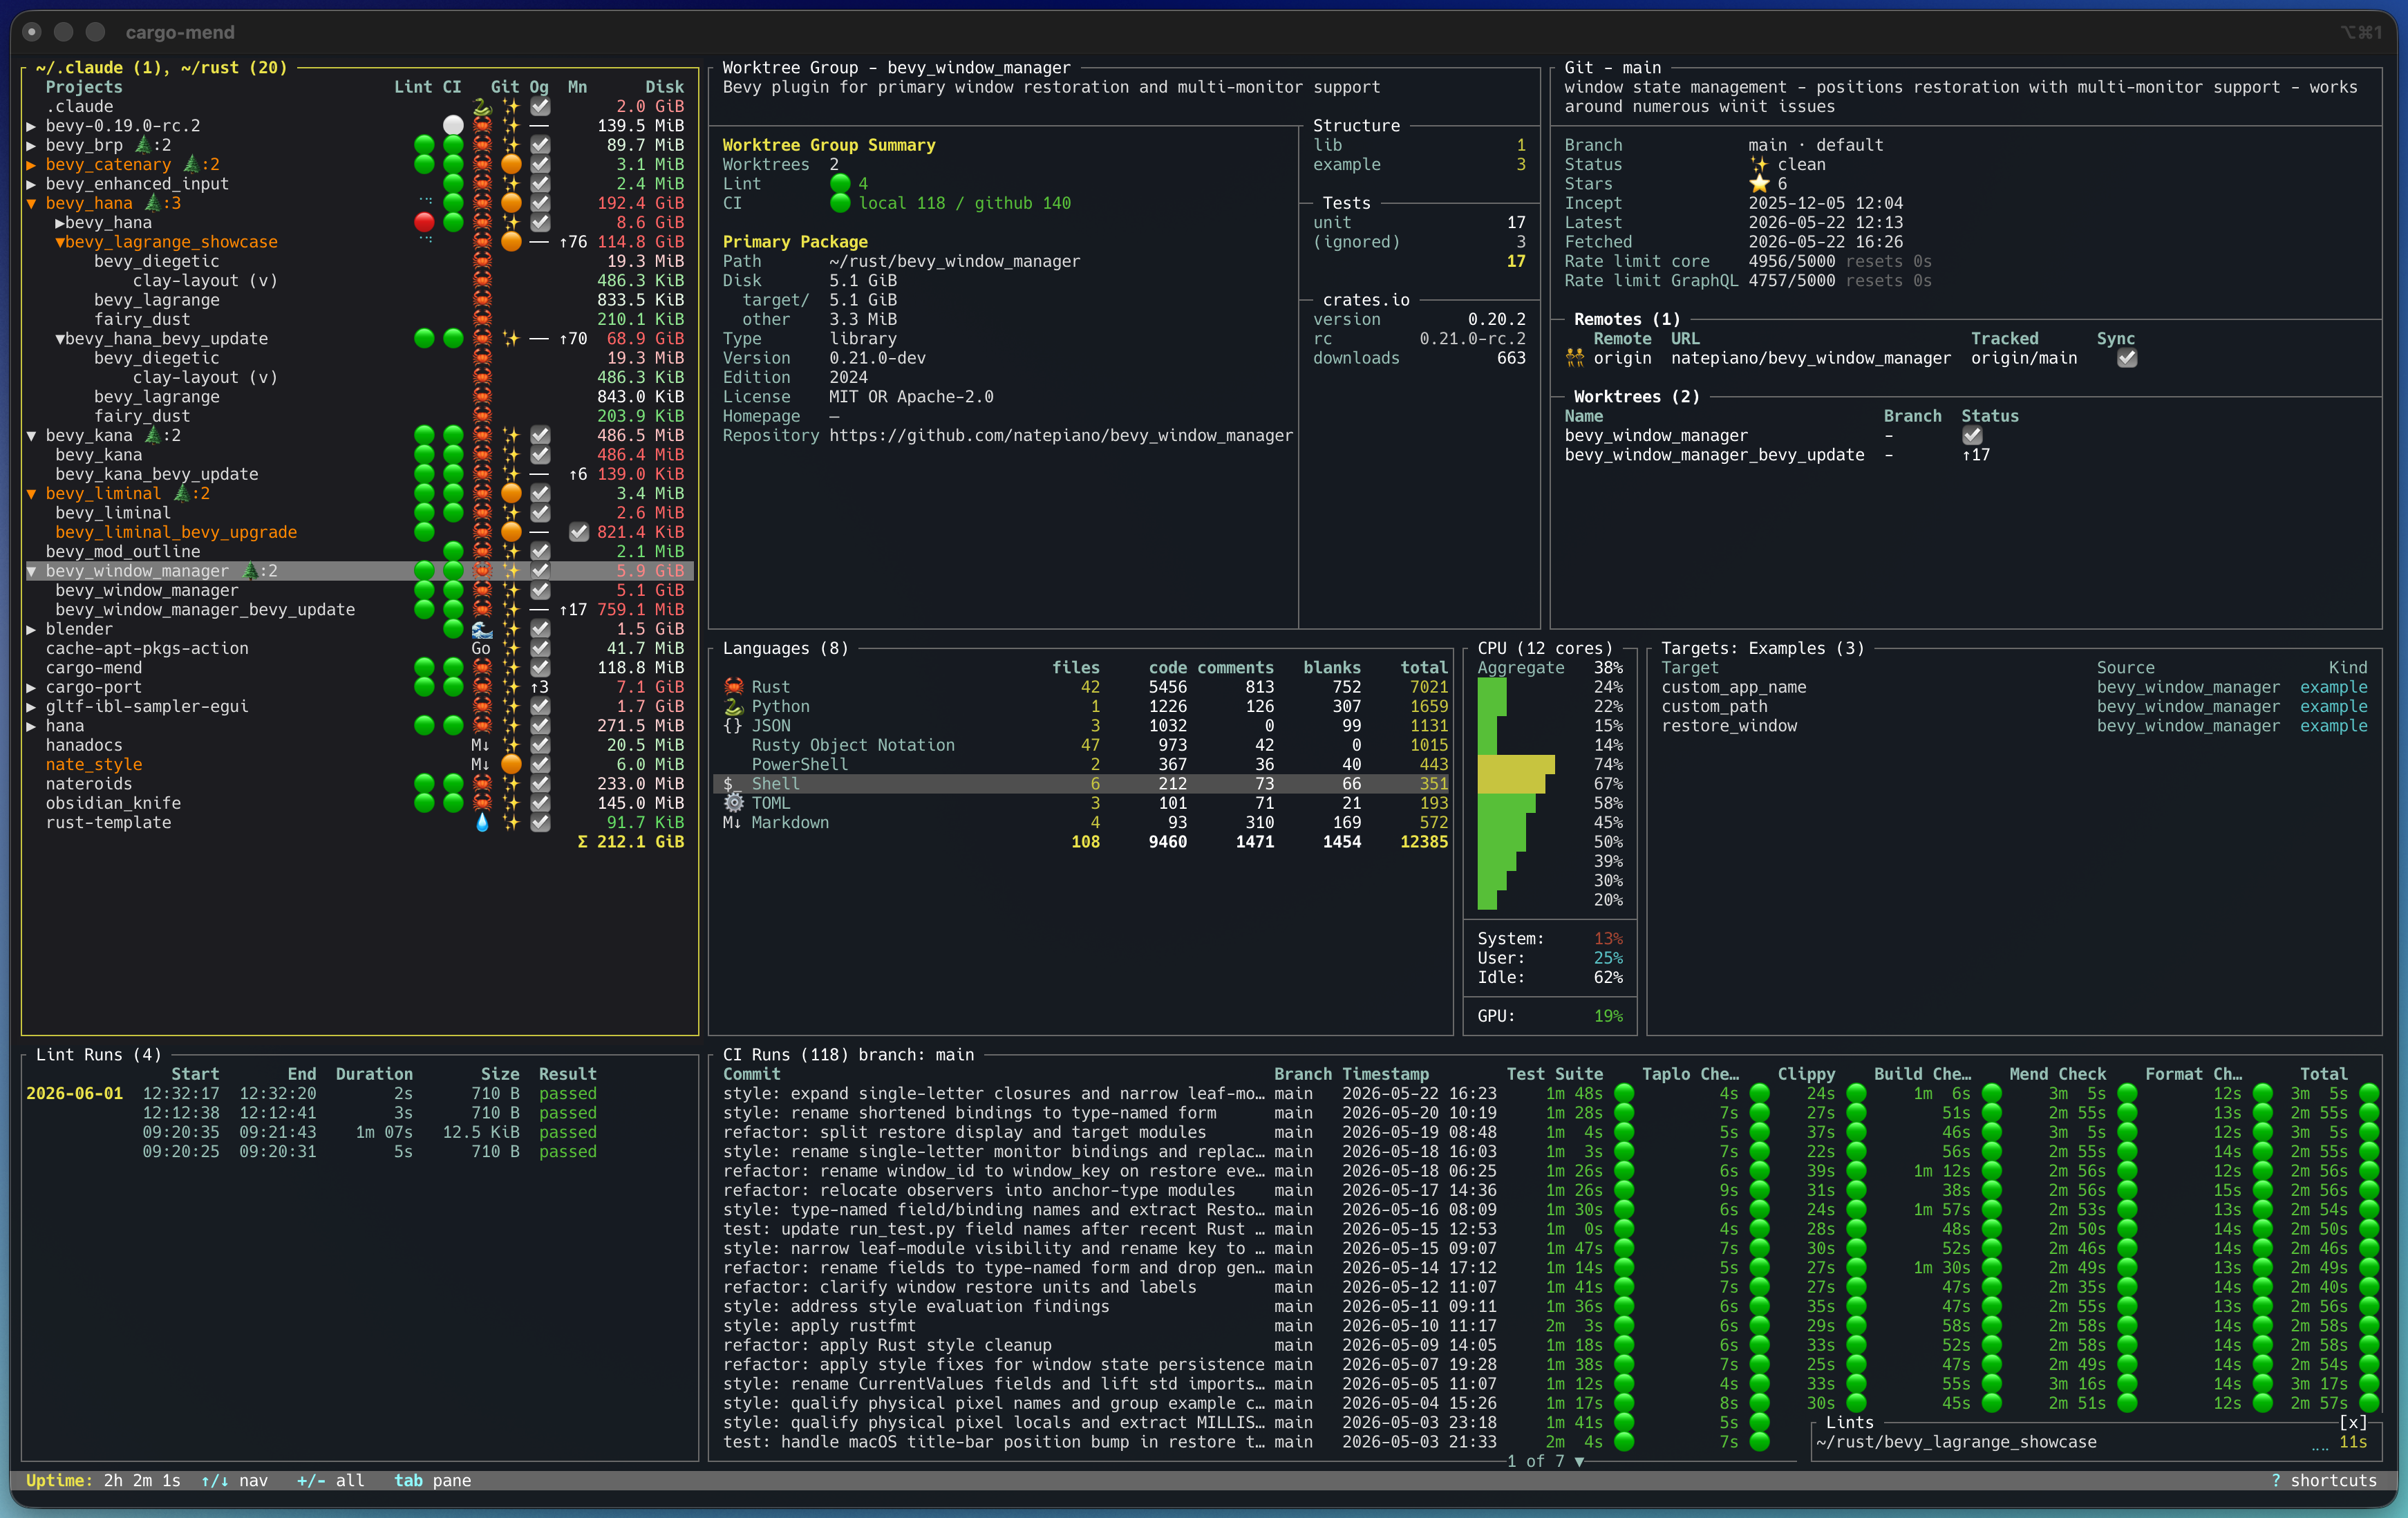
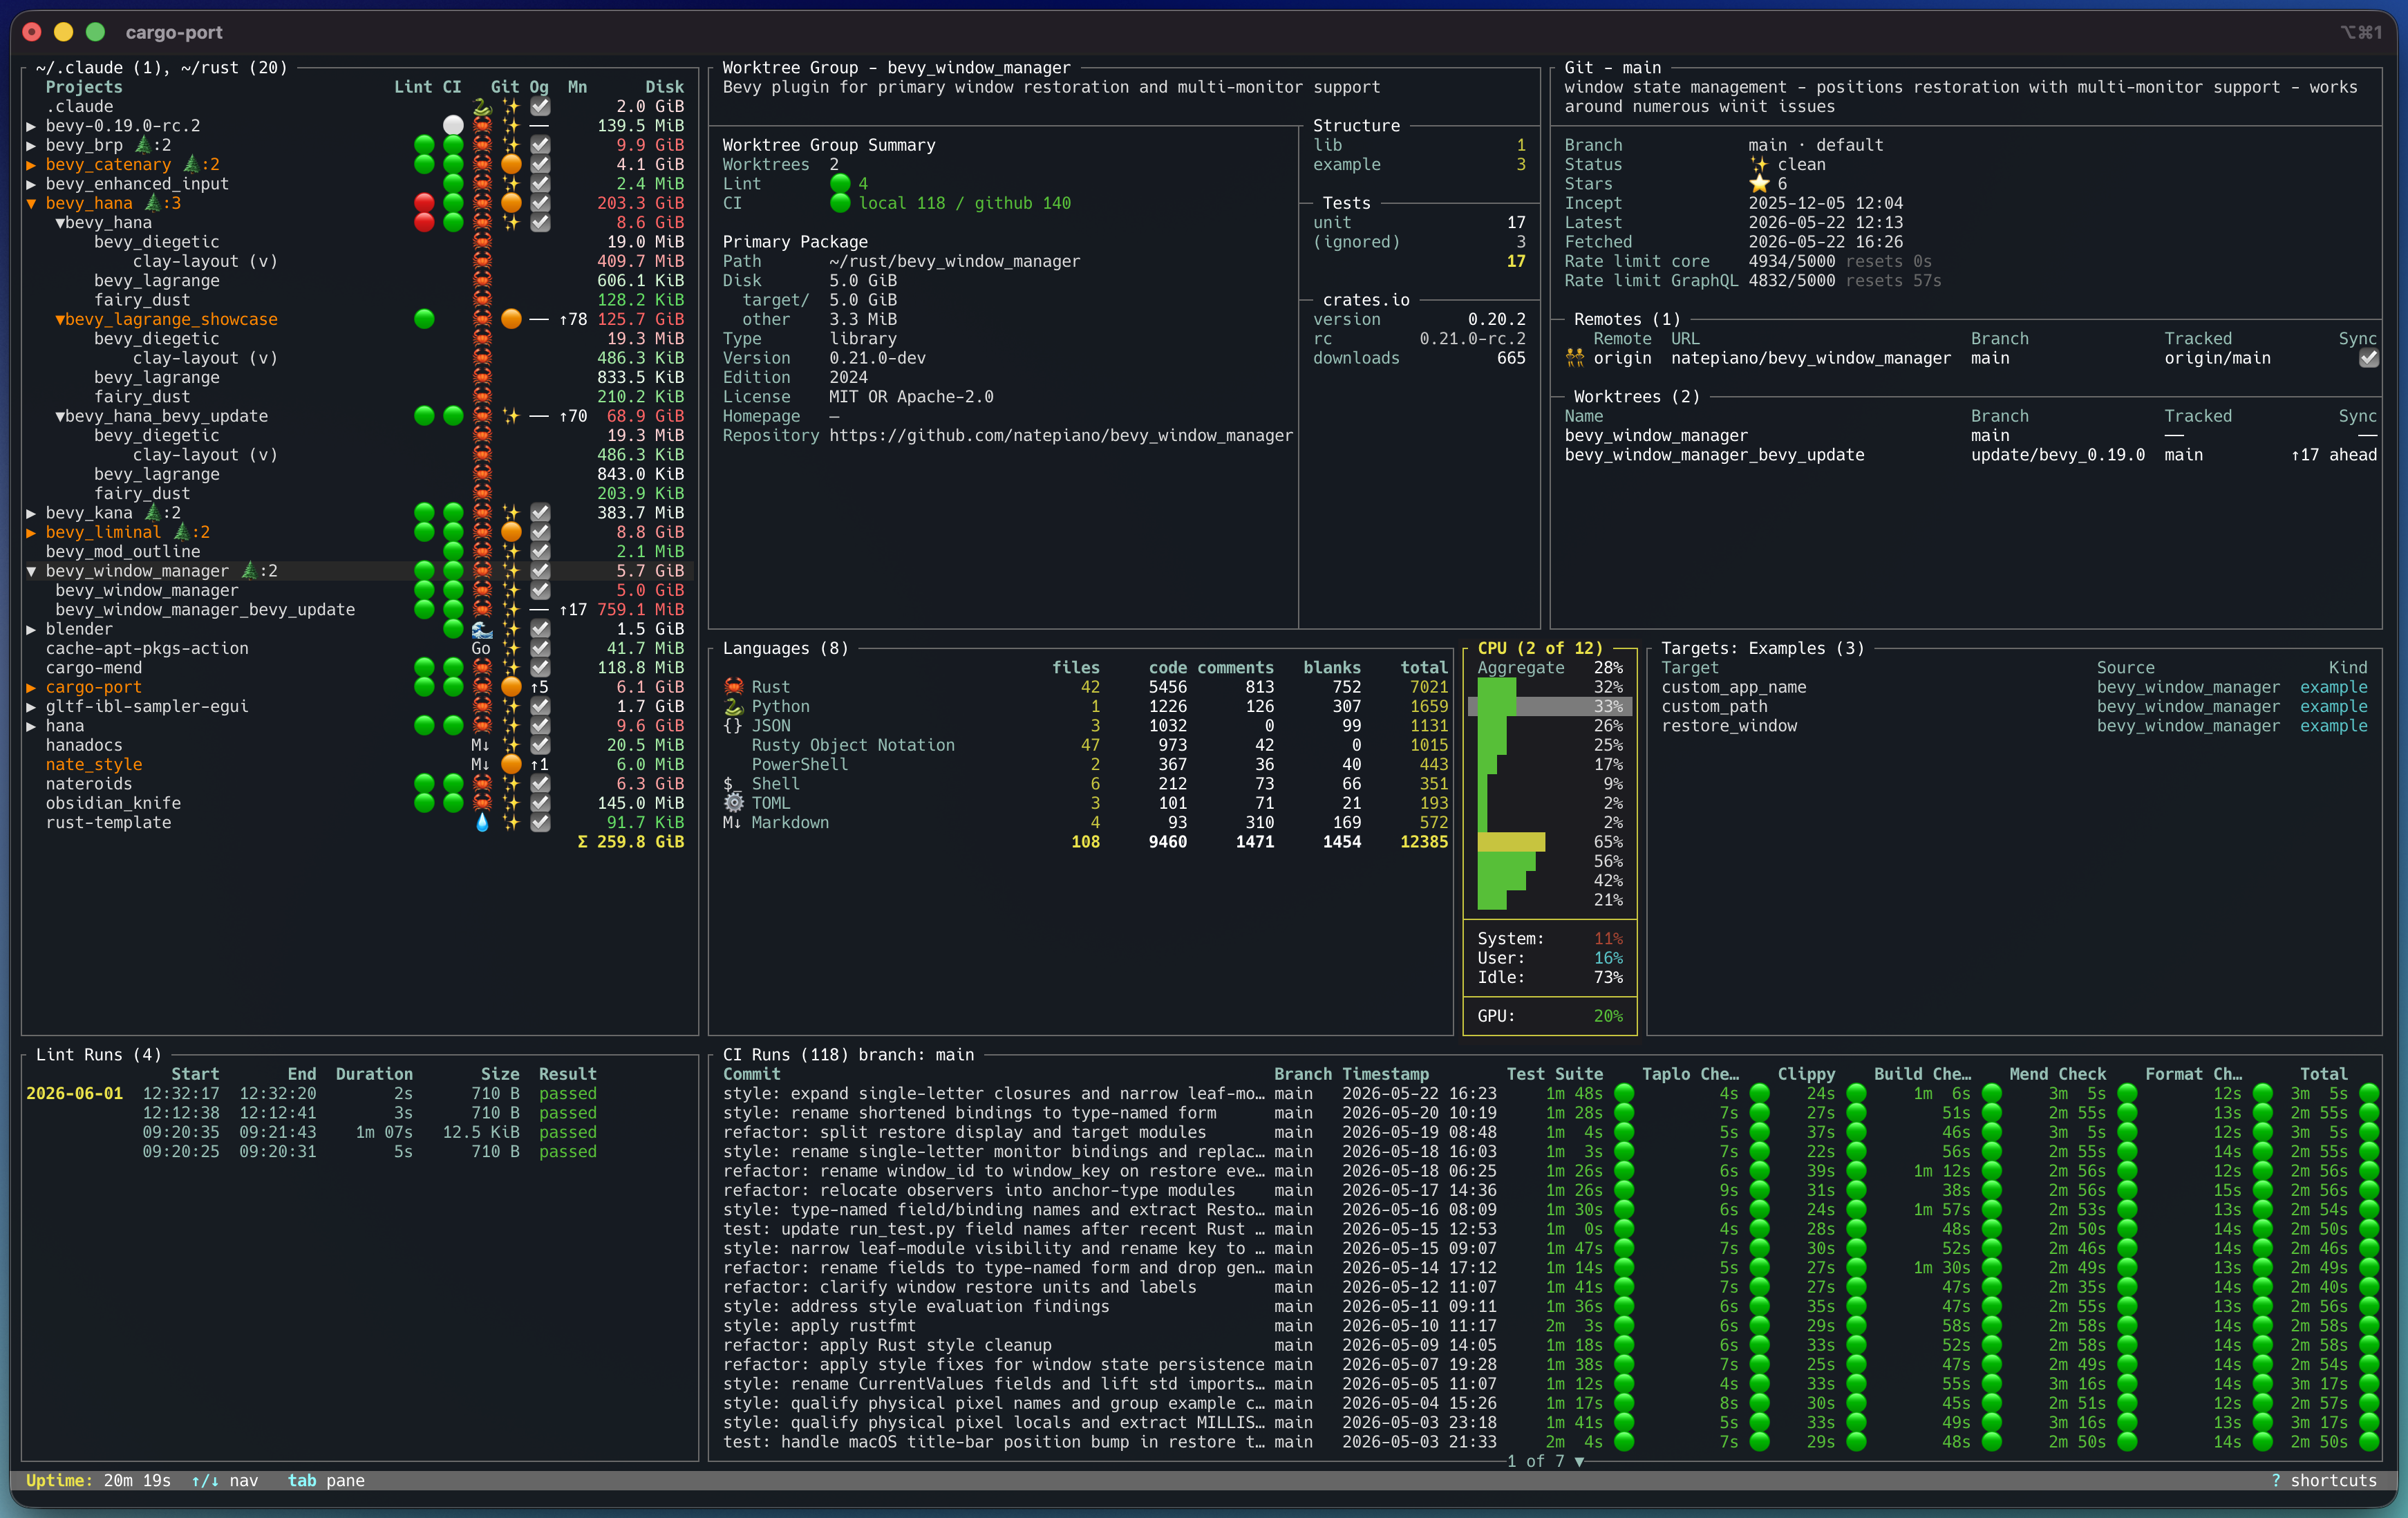
docs: use animated gif for dashboard hero, drop obsolete asset sources
- README: replace the static dashboard-main.png hero image with an
  animated dashboard.gif
- add assets/dashboard.gif
- delete the numbered-overlay SVG sources now that the rendered PNGs are
  committed directly: dashboard-overview, pane-ci-runs, pane-details,
  pane-diagnostics, pane-git, pane-languages, pane-lint-runs,
  pane-project-tree, pane-targets
- delete the unused callout-treatment-options.png/.svg exploration assets
- delete the obsolete screenshot.png
- refresh dashboard-main.png and dashboard-overview-numbered.png

diff --git a/README.md b/README.md
@@ -4,9 +4,7 @@
 [![crates.io](https://img.shields.io/crates/v/cargo-port.svg)](https://crates.io/crates/cargo-port)
 [![docs.rs](https://docs.rs/cargo-port/badge.svg)](https://docs.rs/cargo-port)
 [![license](https://img.shields.io/crates/l/cargo-port.svg)](LICENSE-MIT)
-
-<img src="assets/dashboard-main.png" alt="cargo-port dashboard showing project tree, worktree details, Git status, CPU and GPU diagnostics, targets, lint runs, and CI runs" width="100%">
-
+<img src="assets/dashboard.gif" alt="cargo-port dashboard showing project tree, worktree details, Git status, CPU and GPU diagnostics, targets, lint runs, and CI runs" width="100%">
 cargo-port is a terminal dashboard for your Rust workspaces and projects. Configure it to scan one or more directories to view workspaces, crates, worktrees, vendored dependencies, targets, local lint state, GitHub CI, pull requests, and machine diagnostics in one keyboard-driven view.
 
 - **Inventory everything** - workspaces, members, linked worktrees, submodules, vendored crates, examples, benches, binaries, tests, and non-Rust git repos
@@ -95,13 +93,14 @@ We'll show the Worktree Group as an example below. Run the app to see any of the
 
 1. Pane title shows the current branch and the description from GitHub if it exists.
 2. Branch info, status, stars. Project incept date and date of latest commit. Also date of last fetch.  Rate limits exist on GitHub so we show them in case you are hammering github with requests, you'll see it reflected here.
-3. All configured remotes - including sync (synced/ahead/behind) status
-- 
+3. All configured remotes - including sync (synced/ahead/behind) status between the branch and the tracked origin.
+4. All worktree checkouts. The primary isn't tracked versus anything so just shows the dash. Other checkouts show their branch and tracked status versus main.
 ### Languages
+Cargo port uses the tokei crate to scan for languages at startup. It doesn't refresh automatically but you can always ctrl-r to rescan (default key binding) if your curiosity is getting to you. Can you guess what famous rust game engine has these stats?
 
 <img src="assets/pane-languages-numbered.png" alt="Numbered languages pane" width="75%">
 
-1. Detected languages with file-type icons.
+1. Detected languages with file-type icons. As you can see not everything has an icon - what do you think RON should be?
 2. File counts per language.
 3. Code, comment, blank-line, and total-line counts.
 